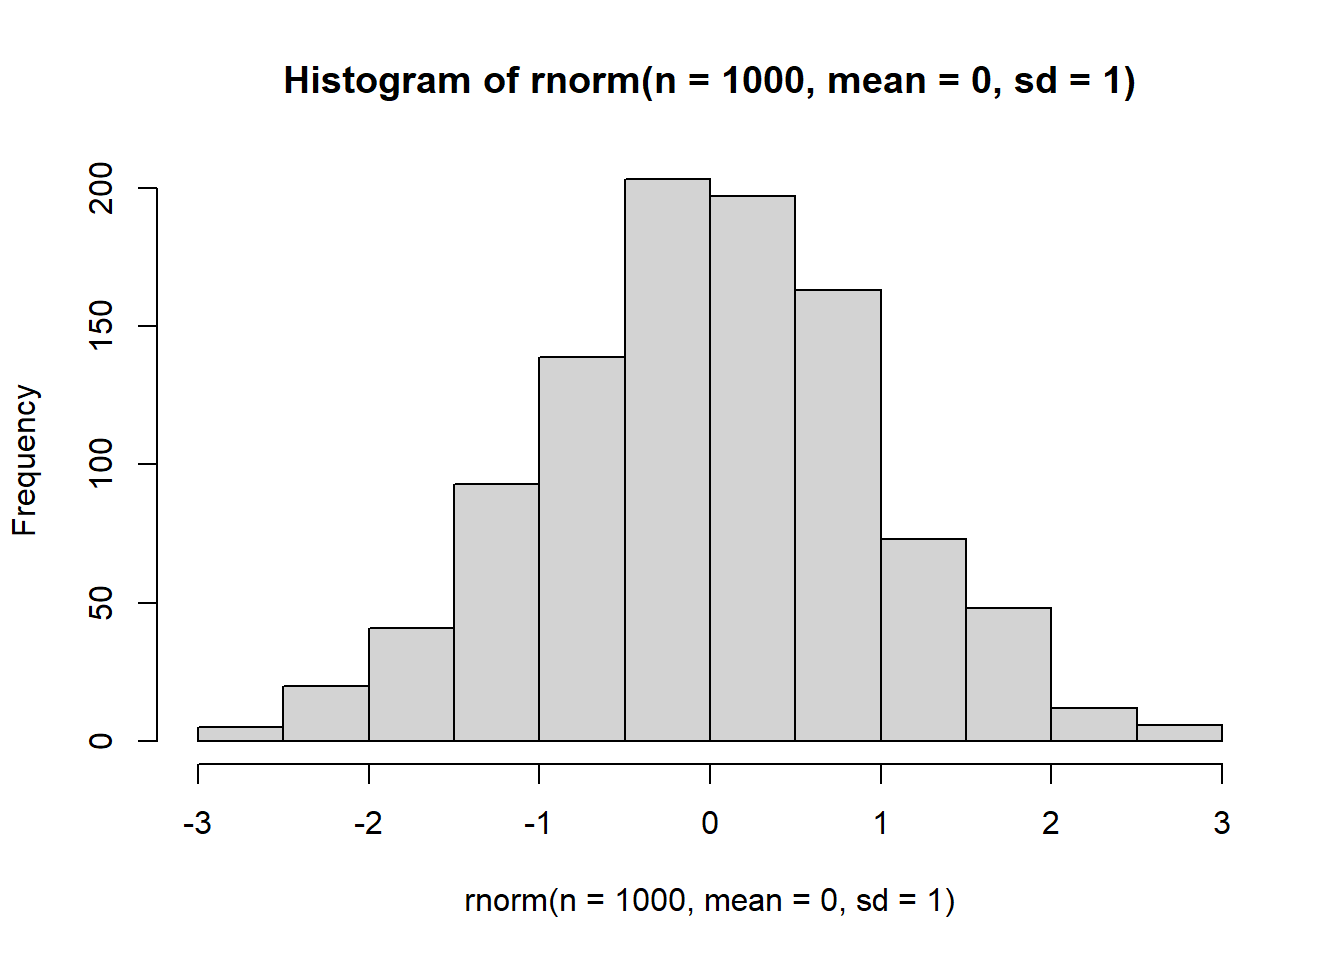
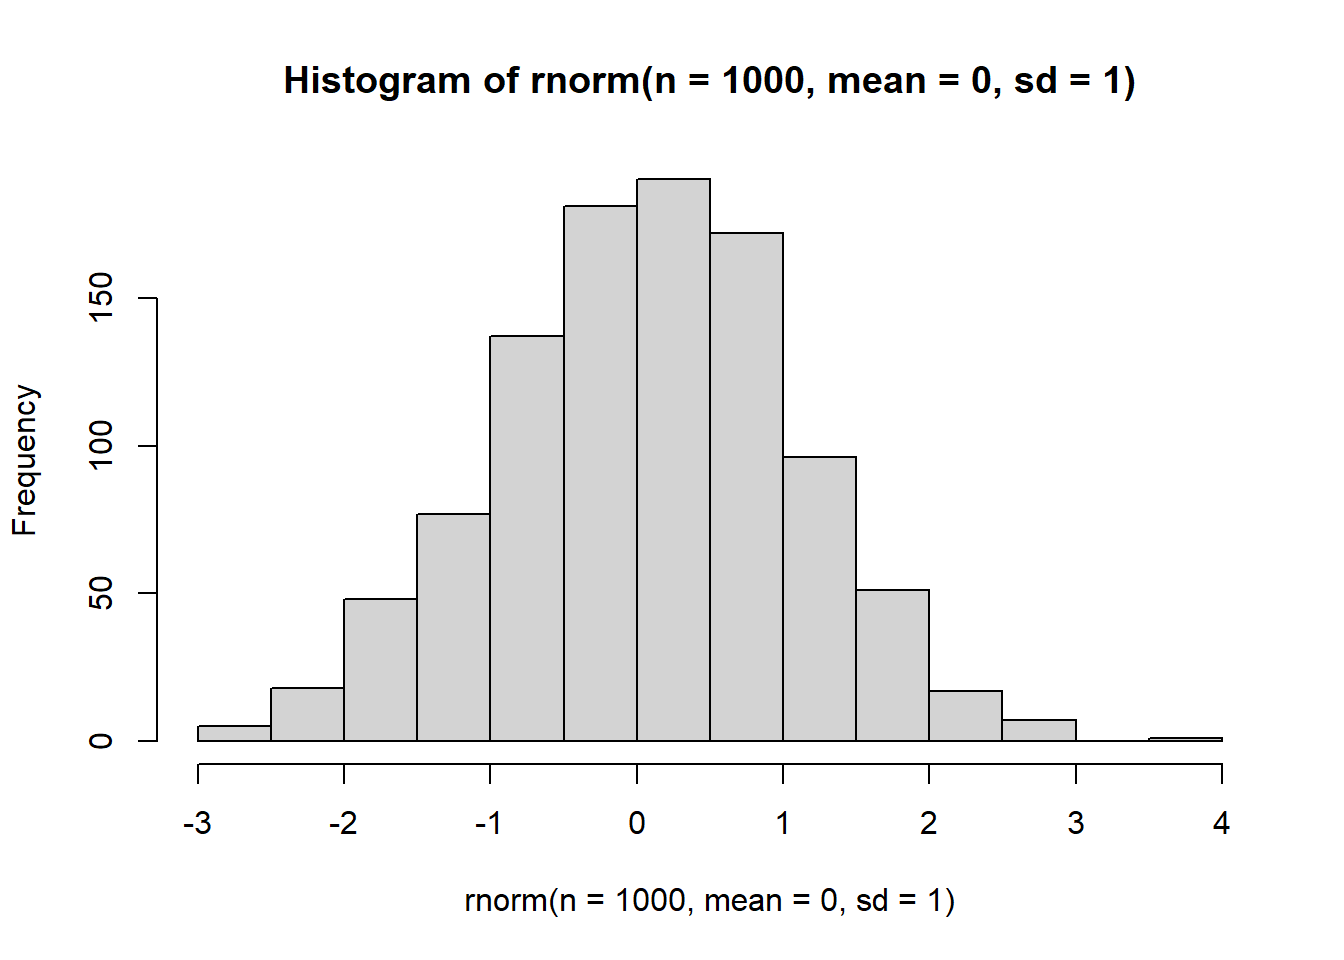
rec5004: R Toolkit with GPT

diff --git a/content/project/rec5004/sec1/_index.md b/content/project/rec5004/sec1/_index.md
@@ -3,8 +3,7 @@ date: "2018-09-09T00:00:00Z"
 # icon: book
 # icon_pack: fas
 linktitle: R Toolkit
-summary: Learn how to use Wowchemy's docs layout for publishing online courses, software
-  documentation, and tutorials.
+summary: This page is a tutorial on using R Toolkit. It covers topics such as installing R and R Studio, working with R packages, using R Markdown, and more. The tutorial is based on courses from the Data Science specialization at Johns Hopkins University available on Coursera. It provides detailed instructions and examples to help users learn how to use R for data manipulation, visualization, and analysis.
 title: R Toolkit
 weight: 1
 output: md_document
@@ -13,27 +12,35 @@ type: book
 
 
 
-- Baseado, principalmente, nos cursos da [_Especialização em Data Science_](https://www.coursera.org/specializations/jhu-data-science) da universidade John Hopkins (disponível no Coursera).
-- Em cada tema abordado serão citadas as fontes, além de incluir aos vídeos dos cursos citados acima para que possam aprofundar nos estudos.
-- Alunos USP conseguem fazer determinados cursos/especializações e pegar o certificado sem pagar: [_Universidade de São Paulo BR on Coursera_](https://www.coursera.org/programs/universidade-de-sao-paulo-br-on-coursera-mvxtw?currentTab=CATALOG&fbclid=IwAR3dT_SDYfjT2FWH06mUcSb8V_z4F9aT_1c6MHHQ3gdiDQ9X9mdRhMcsbOk)
+Principais referências desse material de Econometria com R:
+
+- Cursos da [_Especialização em Data Science_](https://www.coursera.org/specializations/jhu-data-science) da John Hopkins.
+  - É possível "participar como ouvinte" (_audit course_) desses cursos, o que permite acessar a todo material (mas não pode fazer os testes e ganhar os certificados de conclusão). 
+- Livro ["_Using R for Introductory Econometrics_" de Heiss (2020)](http://www.urfie.net/) (versão online gratuita)
+- [Livro "_Panel Data Econometrics with R_" de Croissant e Millo (2018)](https://www.amazon.com.br/Panel-Data-Econometrics-R-English-ebook/dp/B07GCY35N3)
 
 
-## Installing R
+</br>
+
+## Instalando R
 - [Installing R (John Hopkins/Coursera)](https://www.coursera.org/learn/data-scientists-tools/lecture/y6mU2/installing-r)
 
-1. Instalação da base do R ([CRAN](https://cran.r-project.org))
-    - Download R for Windows > base > Download R X.X.X for Windows
-    - Se o computador for 64-bits, opte pela versão 64-bits (é mais rápida)
+1. Instalação da base do R ([CRAN - R for Windows](https://cran.r-project.org/bin/windows/base/))
+    - Download R X.X.X for Windows
+    - Se o computador for 64-bits, opte pela versão 64-bits
 
-2. Instalação do Rtools ([CRAN](https://cran.r-project.org))
-    - Download R for Windows > Rtools > Installing Rtools > rtools40-x86_XX.exe
+2. Instalação do Rtools ([CRAN](https://cran.r-project.org/bin/windows/Rtools/))
+    - RTools X.X > Rtools installer
     - É um conjunto de ferramentas de compilação de várias linguagens (C, C++ e Fortran) que são necessários em alguns pacotes no R
 
 3. Instalação do RStudio ([RStudio Dowload](https://www.rstudio.com/products/rstudio/download/#download))
     - Download RStudio Desktop
     - É uma interface de usuário para facilitar o uso do R
 
-## Using R Studio
+
+</br>
+
+## Usando R Studio
 - [RStudio Tour (John Hopkins/Coursera)](https://www.coursera.org/learn/data-scientists-tools/lecture/0fUNC/rstudio-tour)
 
 RStudio é dividido em 4 quadrantes:
@@ -46,7 +53,8 @@ RStudio é dividido em 4 quadrantes:
 > **Dica**: Alterar o tema do RStudio (fundo branco pode cansar mais a visão num tempo mais longo)<br/>  
 Tools > Global Options... > Appearance > Editor theme > Cobalt (meu preferido)
 
-### Diretório de trabalho (_Working Directory_)
+
+### Diretório de trabalho
 Definir um diretório de trabalho facilita o acesso aos arquivos da pasta (base de dados, etc.).
 
 > Session > Set Working Directory > Choose Directory...
@@ -69,7 +77,8 @@ setwd("C:\\Users\\Fabio\\OneDrive\\FEA-RP") # CORRETO!
 
 Você pode trocar _backslash_ por _slash_, ou duplicar os _backslashs_.
 
-### Executando comandos no R
+
+### Executando comandos
 - Execução direta no console: escreva `1 + 1` no console e dê \<Enter\>
 
 ```r
@@ -86,8 +95,8 @@ rnorm(n=10, mean=0, sd=1)  # Gerar 10 números ~ N(0, 1)
 ```
 
 ```
-##  [1] -0.1468742  2.6036456  1.3079986 -0.5856076  0.2407112  0.3810119
-##  [7] -1.5815206  0.6264068 -0.4672113 -1.3335777
+##  [1]  1.27795003 -0.14574907 -0.64967504 -0.66568500 -0.24312491  1.03415984
+##  [7] -0.75444176 -0.05452605 -0.27491621 -0.94091876
 ```
 
 ```r
@@ -122,14 +131,17 @@ rnorm(mean=0, n=10, sd=1)
 ```
 
 
-## R Packages
+</br>
+
+## Pacotes no R
 - Pacotes são coleções de funções, dados e códigos escritos por outras pessoas
-- Por ser um software _open source_, o R possui muitos pacotes disponibilizados pela internet e muitos economistas (principalmente econometristas) já desenvolvem e disponibilizam pacotes com as implementações de seus novos métodos (por exemplo, Dif-in-Dif com múltiplos períodos de [Callaway e Sant'Anna (2021)](https://bcallaway11.github.io/did/articles/did-basics.html)
+- Por ser um software _open source_, o R possui muitos pacotes disponibilizados pela internet e muitos estatísticos/econometristas já desenvolvem e disponibilizam seus próprios pacotes em sites, como CRAN e Github.
 - A instalação de um pacote só precisa ser feita uma única vez.
 - No entanto, caso você atualize uma nova versão do R, é necessário instalar novamente todos os pacotes.
 - Os pacotes podem ser obtidos em bibliotecas (_libraries_), como CRAN, e de indivíduos (normalmente disponibilizados no GitHub)
-- O CRAN é administrado e, como existe uma curadoria para inserção e manutenção de pacotes novos e defasados, garante qualidade dos pacotes disponibilizados
+- O CRAN é administrado e, como existe uma curadoria para inserção e manutenção de pacotes, garante qualidade dos pacotes disponibilizados
 - Tome cuidado com pacotes disponibilizados por individuos! É possível executar, dentro do R, códigos para criar e apagar arquivos, por exemplo.
+
 
 ### Instalação via CRAN
 > quadrante inferior/direito > Packages > Install > (Nomes dos pacotes)
@@ -163,10 +175,6 @@ library(dplyr) # Pacote para manipulacao de base de dados
 ```
 
 ```
-## Warning: package 'dplyr' was built under R version 4.2.2
-```
-
-```
 ## 
 ## Attaching package: 'dplyr'
 ```
@@ -185,10 +193,6 @@ library(dplyr) # Pacote para manipulacao de base de dados
 
 ```r
 library(MASS) # Normalmente nao eh carregado diretamente (via outro pacote)
-```
-
-```
-## Warning: package 'MASS' was built under R version 4.2.2
 ```
 
 ```
@@ -212,8 +216,9 @@ dplyr::select(.data, ...) # do pacote dplyr
 > quadrante inferior/direito > Packages > Update > Select All > Install Updates
 
 
+</br>
 
-## Help
+## Ajuda
 - Caso saiba o nome da função, é possível olhar sua documentação escrevendo `?<nome_da_funcao>` (como visto anteriormente)
 - Caso saiba o nome do pacote, em alguns casos funciona `?<nome_do_pacote>`, mas o ideal é buscar sua documentação no CRAN (diretamente no site ou via Google)
 - Por exemplo, podemos acessar a página do [pacote `dplyr` no CRAN](https://cran.r-project.org/web/packages/dplyr/index.html):
@@ -241,8 +246,25 @@ browseVignettes("dplyr") # Abrirá uma página com vignettes no seu navegador
 <center><img src="../stackoverflow_help.png"></center>
 
 
+### ChatGPT e Bing Chat
 
-## GitHub Sync
+- É possível ter um assistente para aprender a usar o R usando o chatbots como ChatGPT ([https://chat.openai.com](https://chat.openai.com)) e Bing Chat ([https://www.bing.com/chat](https://www.bing.com/chat)).
+- Ambos ChatGPT e Bing Chat são alimentados por um modelo de linguagem grande (LLN) criado pela OpenAI, que são treinados com trilhões de documentos (páginas de internet, livros, artigos, etc.) e conseguem gerar textos baseados em contexto.
+- A diferença entre os dois é que o ChatGPT utiliza o modelo GPT 3.5-turbo, enquanto o Bing Chat usa o GPT-4 e está ligado à internet.
+- Especificamente para programação, gera-se respostas confiáveis a perguntas feitas ao chatbot, tornando-o uma ferramenta interessante para auxiliar o aprendizado no R.
+
+
+<center><img src="../ChatGPT.png"></center>
+
+
+
+<center><img src="../BingChat.png"></center>
+
+
+
+</br>
+
+## Sincronização no GitHub
 Não será detalhado aqui, mas é algo interessante para olhar.
 
 - [Criação de projetos](https://www.coursera.org/learn/data-scientists-tools/lecture/2o9zr/projects-in-r)
@@ -250,6 +272,9 @@ Não será detalhado aqui, mas é algo interessante para olhar.
 - [GitHub e Git](https://www.coursera.org/learn/data-scientists-tools/lecture/VOh24/github-and-git)
 - [Projetos sob controle de versões](https://www.coursera.org/learn/data-scientists-tools/lecture/wbfrX/projects-under-version-control)
 
+
+
+</br>
 
 ## R Markdown
 Markdown é uma sintaxe de formatação simples para criar documento HTML, PDF ou Word.
@@ -325,7 +350,7 @@ Por exemplo:
 
 ````yaml
 ```{r pressure, echo = FALSE}
-plot(pressure) # Gráfico da base de dados 'pressure'
+plot(pressure) # Gráfico da base de dados `pressure`
 ```
 ````
 
